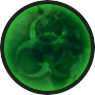
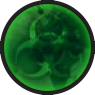
Hovering over the infection deck now displays the number of cards it contains. Cleaned up the infection cardback image.

diff --git a/clientCode/logic.js b/clientCode/logic.js
@@ -7941,6 +7941,7 @@ async function setup()
 	await removeCurtain();
 
 	bindPlayerDeckHover();
+	bindInfectionDeckHover();
 	
 	if (forecastInProgress())
 	{
@@ -7961,8 +7962,10 @@ function bindPlayerDeckHover()
 	$("#playerDeck").off("mouseenter")
 		.hover(function()
 		{
-			if (!currentStepIs("setup"))
-				$(this).attr("title", `${data.numPlayerCardsRemaining} card${data.numPlayerCardsRemaining != 1 ? "" : ""}`);
+			if (currentStepIs("setup"))
+				return;
+
+			$(this).attr("title", `${data.numPlayerCardsRemaining} card${data.numPlayerCardsRemaining != 1 ? "s" : ""}`);
 		});
 }
 
@@ -9017,6 +9020,26 @@ function collapsenfectionDiscardPile()
 				getDuration("discardPileCollapse"),
 				function() { resolve(); });
 		});
+}
+
+function bindInfectionDeckHover()
+{
+	$("#infectionDeck").hover(function()
+	{
+		if (currentStepIs("setup"))
+			return;
+		
+		const MAX_CARDS_IN_DECK = 48;
+		let numCardsInDeck = MAX_CARDS_IN_DECK - $("#infectionDiscard").find(".infectionCard").length;
+		
+		if (currentStepIs("infect cities"))
+			numCardsInDeck -= $("#infectCitiesContainer").find(".playerCard").length;
+		
+		if (currentStepIs("epInfect"))
+			numCardsInDeck -= $("#epidemicContainer").find(".playerCard").length;
+		
+		$(this).attr("title", `${numCardsInDeck} cards`);
+	});
 }
 
 function bindInfectionDiscardHover({ unbind } = {})
